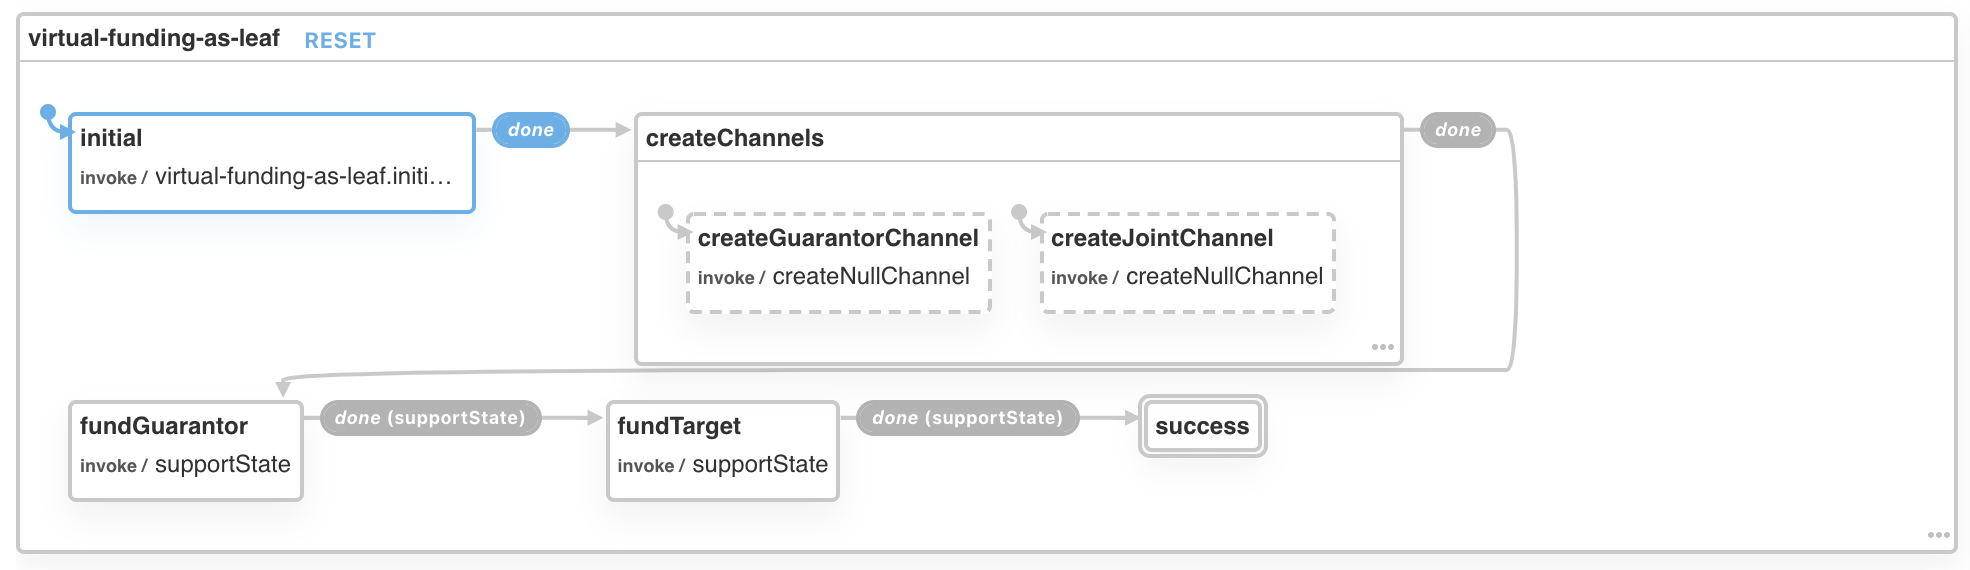
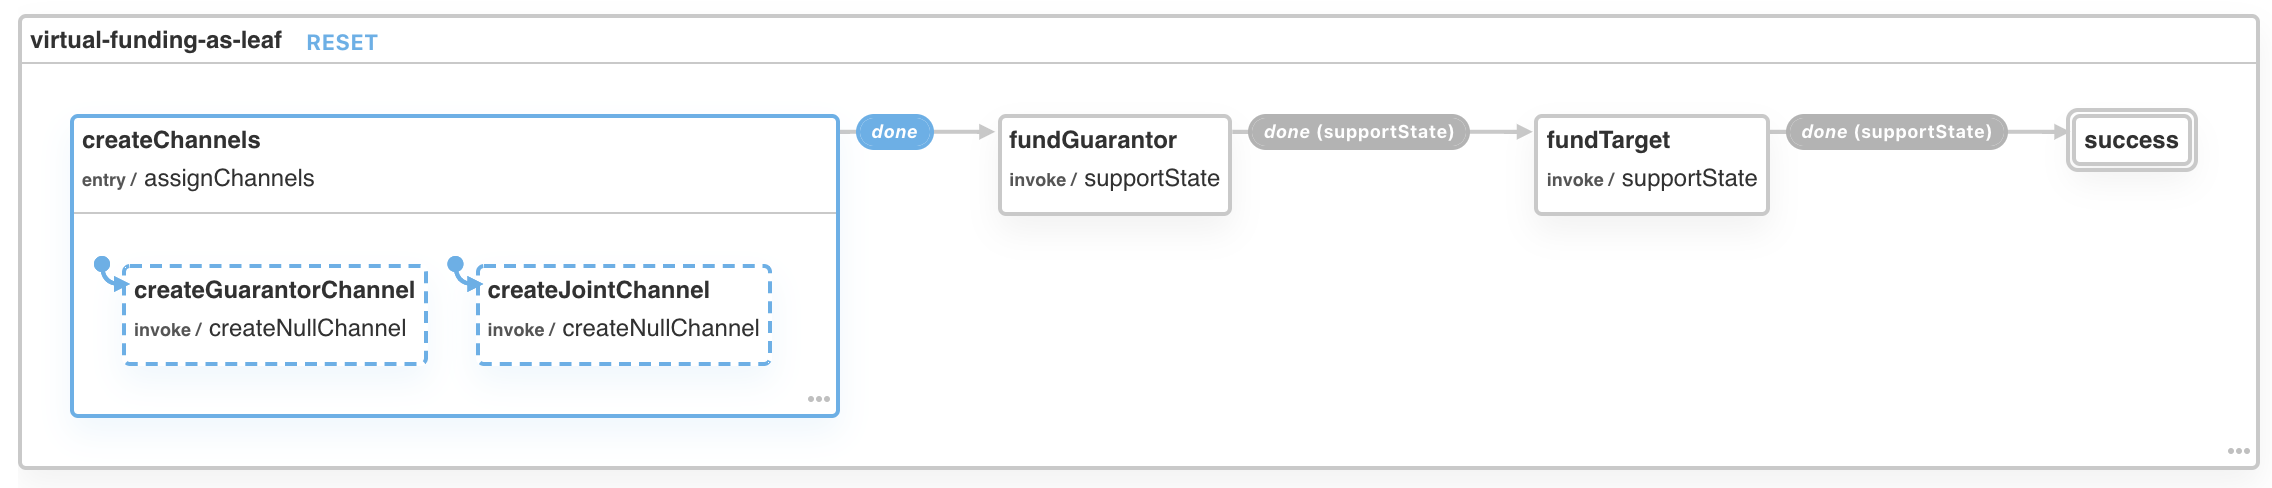
Add assignChannels action to virtual-leaf machine This action is determines the channels (by querying the store)

Changed region(s): [[0.0, 0.0, 1.0, 0.9836], [0.031, 0.3381, 0.7741, 0.8914], [0.6812, 0.4303, 0.7741, 0.4611]]

diff --git a/packages/wallet-specs/src/protocols/virtual-fund-as-leaf/protocol.ts b/packages/wallet-specs/src/protocols/virtual-fund-as-leaf/protocol.ts
@@ -1,3 +1,4 @@
+import { assign } from 'xstate';
 import {
   add,
   AllocationItem,
@@ -5,6 +6,7 @@ import {
   Channel,
   getChannelID,
   Guarantee,
+  store,
 } from '../../';
 import { saveConfig } from '../../utils';
 import { Init as CreateNullChannelArgs } from '../create-null-channel/protocol';
@@ -25,10 +27,33 @@ export interface Init {
   index: Indices.Left | Indices.Right;
 }
 
-const initial = {
-  invoke: 'assignChannels',
-  onDone: 'createChannels',
-};
+export const assignChannels = assign(
+  (init: Init): ChannelsKnown => {
+    const { hubAddress, targetChannelId, index } = init;
+    const participants = store
+      .getEntry(targetChannelId)
+      .participants.map(p => p.destination);
+    const jointParticipants = [participants[0], hubAddress, participants[1]];
+    const jointChannel: Channel = {
+      participants: jointParticipants,
+      channelNonce: store.getNextNonce(jointParticipants),
+      chainId: 'TODO',
+    };
+
+    const guarantorParticipants = [participants[index], hubAddress];
+    const guarantorChannel: Channel = {
+      participants: guarantorParticipants,
+      channelNonce: store.getNextNonce(guarantorParticipants),
+      chainId: 'TODO',
+    };
+
+    return {
+      ...init,
+      jointChannel,
+      guarantorChannel,
+    };
+  }
+);
 
 export type ChannelsKnown = Init & {
   jointChannel: Channel;
@@ -92,6 +117,7 @@ export function fundGuarantorArgs({
   };
 }
 const createChannels = {
+  entry: 'assignChannels',
   type: 'parallel',
   states: {
     createGuarantorChannel,
@@ -119,9 +145,8 @@ const fundTarget = {
 // PROTOCOL DEFINITION
 const config = {
   key: PROTOCOL,
-  initial: 'initial',
+  initial: 'createChannels',
   states: {
-    initial,
     createChannels,
     fundGuarantor,
     fundTarget,

diff --git a/packages/wallet-specs/src/store.ts b/packages/wallet-specs/src/store.ts
@@ -13,13 +13,13 @@ interface IStore {
   getLatestConsensus: (channelID: string) => SignedState; // Used for null channels, whose support must be a single state
   getLatestSupport: (channelID: string) => SignedState[]; //  Used for application channels, which would typically have multiple states in its support
   getLatestSupportedAllocation: (channelID: string) => Allocation;
+  getEntry: (channelID: string) => ChannelStoreEntry;
 
   // The channel store should garbage collect stale states on CHANNEL_UPDATED events.
   // If a greater state becomes supported on such an event, it should replace the latest
   // supported state, and remove any lesser, unsupported states.
   getUnsupportedStates: (channelID: string) => SignedState[];
 
-  getEntry: (channelID: string) => ChannelStoreEntry;
   findLedgerChannelId: (targetChannelId: string) => string | undefined;
 
   signedByMe: (state: State) => boolean;

diff --git a/packages/wallet-specs/src/protocols/virtual-fund-as-leaf/protocol.config.js b/packages/wallet-specs/src/protocols/virtual-fund-as-leaf/protocol.config.js
@@ -1,9 +1,9 @@
 const config = {
   key: 'virtual-funding-as-leaf',
-  initial: 'initial',
+  initial: 'createChannels',
   states: {
-    initial: { invoke: 'assignChannels', onDone: 'createChannels' },
     createChannels: {
+      entry: 'assignChannels',
       type: 'parallel',
       states: {
         createGuarantorChannel: {
